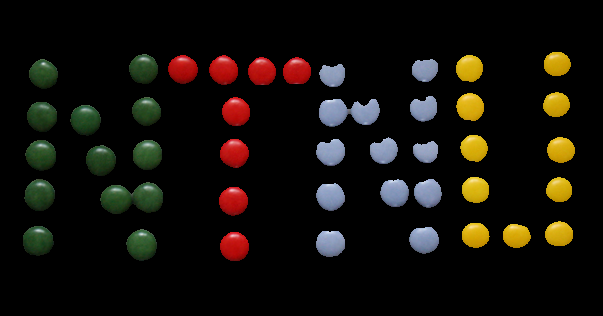
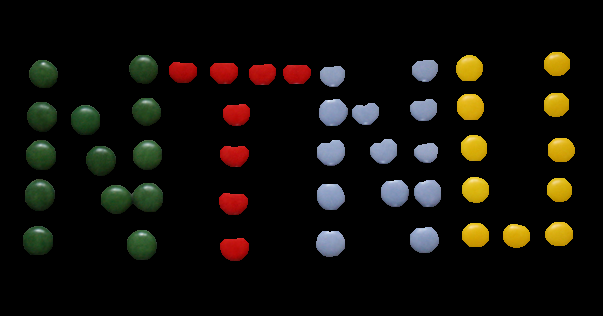
almost working version.

diff --git a/matlab/main2.m b/matlab/main2.m
@@ -20,19 +20,6 @@ yellow_sweets = seperateColoredObjects(:,:,4);
 pink_sweets = seperateColoredObjects(:,:,5);
 orange_sweets = seperateColoredObjects(:,:,6);
 
-red_sweets = imfill(red_sweets,'holes');
-green_sweets = imfill(green_sweets,'holes');
-blue_sweets = imfill(blue_sweets,'holes');
-yellow_sweets = imfill(yellow_sweets,'holes');
-pink_sweets = imfill(pink_sweets,'holes');
-orange_sweets = imfill(orange_sweets,'holes');
-
-red_sweets = openAndClose(red_sweets);
-green_sweets = openAndClose(green_sweets);
-blue_sweets = openAndClose(blue_sweets);
-yellow_sweets = openAndClose(yellow_sweets);
-pink_sweets = openAndClose(pink_sweets);
-orange_sweets = openAndClose(orange_sweets);
 
 % merge all maskes to one complete mask
 bitmask = red_sweets | green_sweets | blue_sweets | yellow_sweets | pink_sweets | orange_sweets;
@@ -51,31 +38,32 @@ for i = 1:1:3
     maskedImage(:,:,i) = double(originalImg(:,:,i).*bitmask);
 end
 
-% find sweets
-[c,r] = imfindcircles(bitmask,[10,30]);
+% find sweets in every color
+[red_c,red_r] = imfindcircles(red_sweets,[10,30]);
+[green_c,green_r] = imfindcircles(green_sweets,[10,30]);
+[blue_c,blue_r] = imfindcircles(blue_sweets,[10,30]);
+[yellow_c,yellow_r] = imfindcircles(yellow_sweets,[10,30]);
+[pink_c,pink_r] = imfindcircles(pink_sweets,[10,30]);
+[orange_c,orange_r] = imfindcircles(orange_sweets,[10,30]);
 
-% cc=1:80; 
-% rr=cc.';
-% 
-% cx1=40; cy1=40; R1=20;
-% 
-% 
-% f=@(xx,yy) (xx-cx1).^2+(yy-cy1).^2 <=R1^2; 
-%  
-% 
-% circ=bsxfun(f,rr,cc); %Logical map of 2 circles
+% self implemented hough
+%C = circlesHough(double(bitmask),12,21);
 
-%C = circlesHough(double(circ),20,21);
-
-C = circlesHough(double(bitmask),5,21);
-%figure(); imshow(l);
 %display detected circles
-figure('Name','Detected sweets','NumberTitle','off'); imshow(originalImg);viscircles(c,r);
+f = figure('Name','Detected sweets','NumberTitle','off','visible','off'); imshow(originalImg);
+viscircles(red_c,red_r,'EdgeColor','r');
+viscircles(green_c,green_r,'EdgeColor','g');
+viscircles(blue_c,blue_r,'EdgeColor','b');
+viscircles(yellow_c,yellow_r,'EdgeColor','yellow');
+viscircles(pink_c,pink_r,'EdgeColor',[1,0.4,0.6]);
+viscircles(orange_c,orange_r,'EdgeColor',[1,0.56,0]);
+detectedSweets = getframe(f);
 
 % Write images to files.
 imwrite(originalImg,['results/' fileToLoad '_original.png']);
 imwrite(maskedImage,['results/' fileToLoad '_masked.png']);
 imwrite(bitmask,['results/' fileToLoad '_total_mask.png']);
+imwrite(detectedSweets.cdata,['results/' fileToLoad '_detected_sweets.png']);
 imwrite(red_sweets,['results/' fileToLoad '_red_sweets.png']);
 imwrite(green_sweets,['results/' fileToLoad '_green_sweets.png']);
 imwrite(blue_sweets,['results/' fileToLoad '_blue_sweets.png']);
@@ -88,8 +76,23 @@ imwrite(orange_sweets,['results/' fileToLoad '_orange_sweets.png']);
 fileName = 'test.txt';
 fileId = fopen(fileName,'w');
 if fileId ~= -1
-    for i = 1:size(c,1)
-      fprintf(fileId,'%d%d%4.4d%4.4d\r\n',1,int16(r(i,1)),int16(c(i,1)),int16(c(i,2)));
+    for i = 1:size(red_c,1)
+      fprintf(fileId,'%d%d%4.4d%4.4d\r\n',1,int16(red_r(i,1)),int16(red_c(i,1)),int16(red_c(i,2)));
+    end;
+    for i = 1:size(green_c,1)
+      fprintf(fileId,'%d%d%4.4d%4.4d\r\n',2,int16(green_r(i,1)),int16(green_c(i,1)),int16(green_c(i,2)));
+    end;
+    for i = 1:size(blue_c,1)
+      fprintf(fileId,'%d%d%4.4d%4.4d\r\n',3,int16(blue_r(i,1)),int16(blue_c(i,1)),int16(blue_c(i,2)));
+    end;
+    for i = 1:size(yellow_c,1)
+      fprintf(fileId,'%d%d%4.4d%4.4d\r\n',4,int16(yellow_r(i,1)),int16(yellow_c(i,1)),int16(yellow_c(i,2)));
+    end;
+    for i = 1:size(pink_c,1)
+      fprintf(fileId,'%d%d%4.4d%4.4d\r\n',5,int16(pink_r(i,1)),int16(pink_c(i,1)),int16(pink_c(i,2)));
+    end;
+    for i = 1:size(orange_c,1)
+      fprintf(fileId,'%d%d%4.4d%4.4d\r\n',6,int16(orange_r(i,1)),int16(orange_c(i,1)),int16(orange_c(i,2)));
     end;
     fclose(fileId);
 end

diff --git a/matlab/separateColors.m b/matlab/separateColors.m
@@ -61,7 +61,26 @@ only_orange = medianFilter(only_orange, 14);
 only_pink   = medianFilter(only_pink, 10);
 
 % weird
+
+only_red = imfill(only_red,'holes');
+only_green = imfill(only_green,'holes');
+only_blue = imfill(only_blue,'holes');
+only_yellow = imfill(only_yellow,'holes');
+only_pink = imfill(only_pink,'holes');
+only_orange = imfill(only_orange,'holes');
+
 only_blue = only_blue & ~only_pink;
+only_pink = only_pink & ~only_red;
+
+only_red = openAndClose(only_red);
+only_green = openAndClose(only_green);
+only_blue = openAndClose(only_blue);
+only_yellow = openAndClose(only_yellow);
+only_pink = openAndClose(only_pink);
+only_orange = openAndClose(only_orange);
+
+
+
 
 output_args = zeros(m, n, 6);
 
